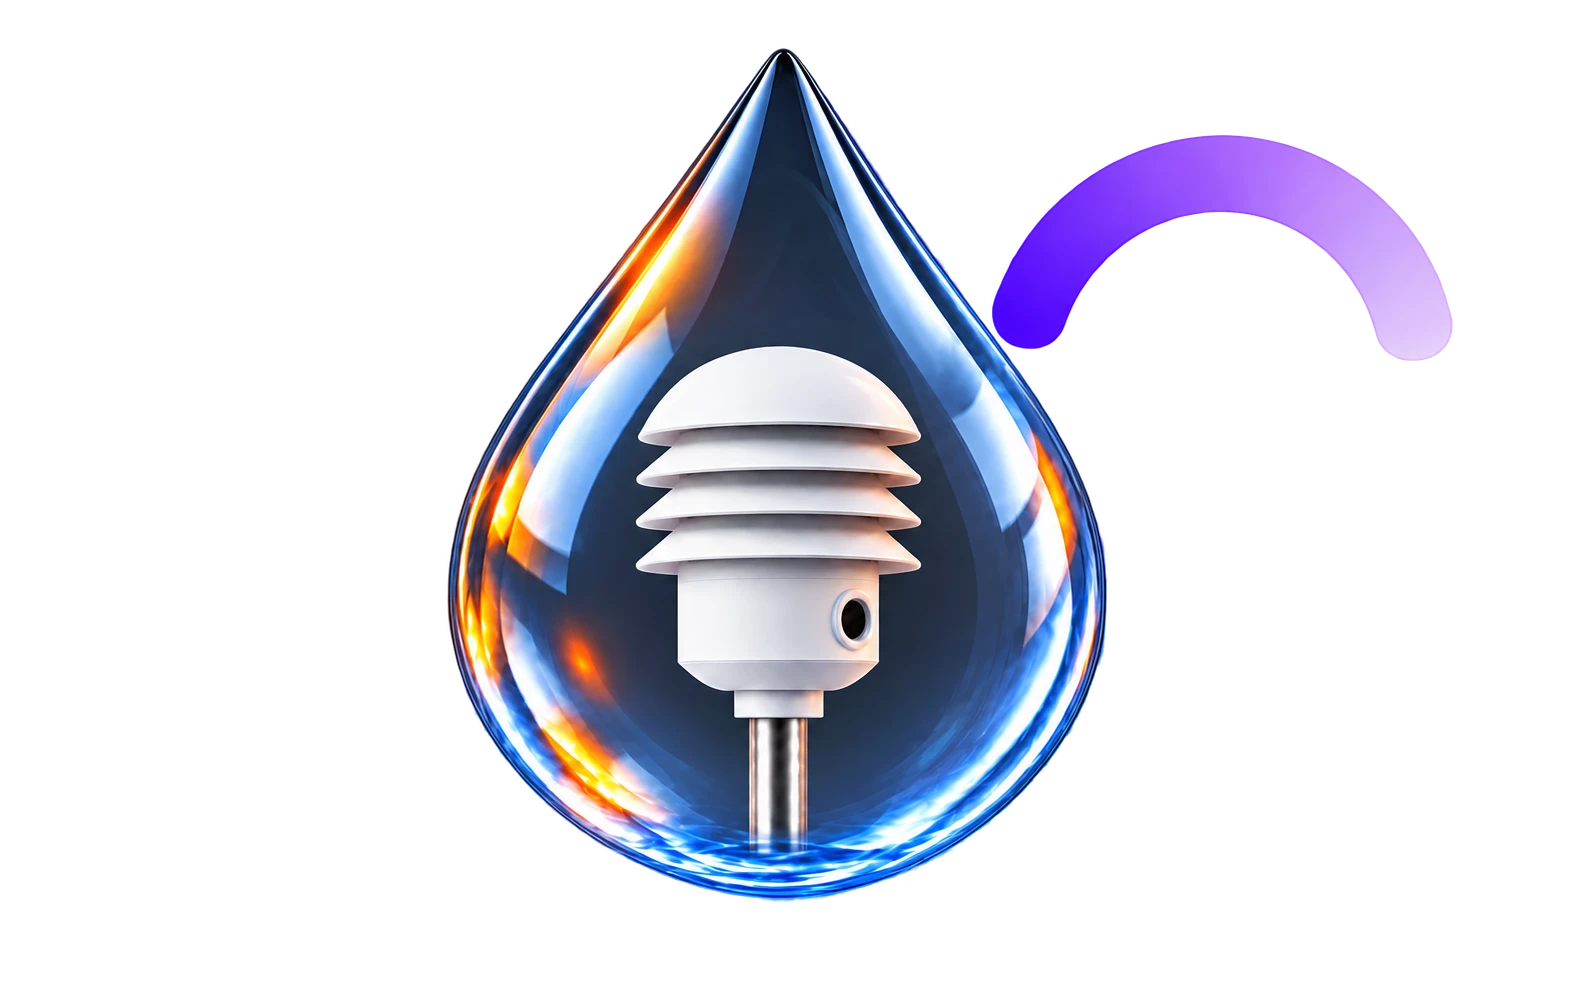
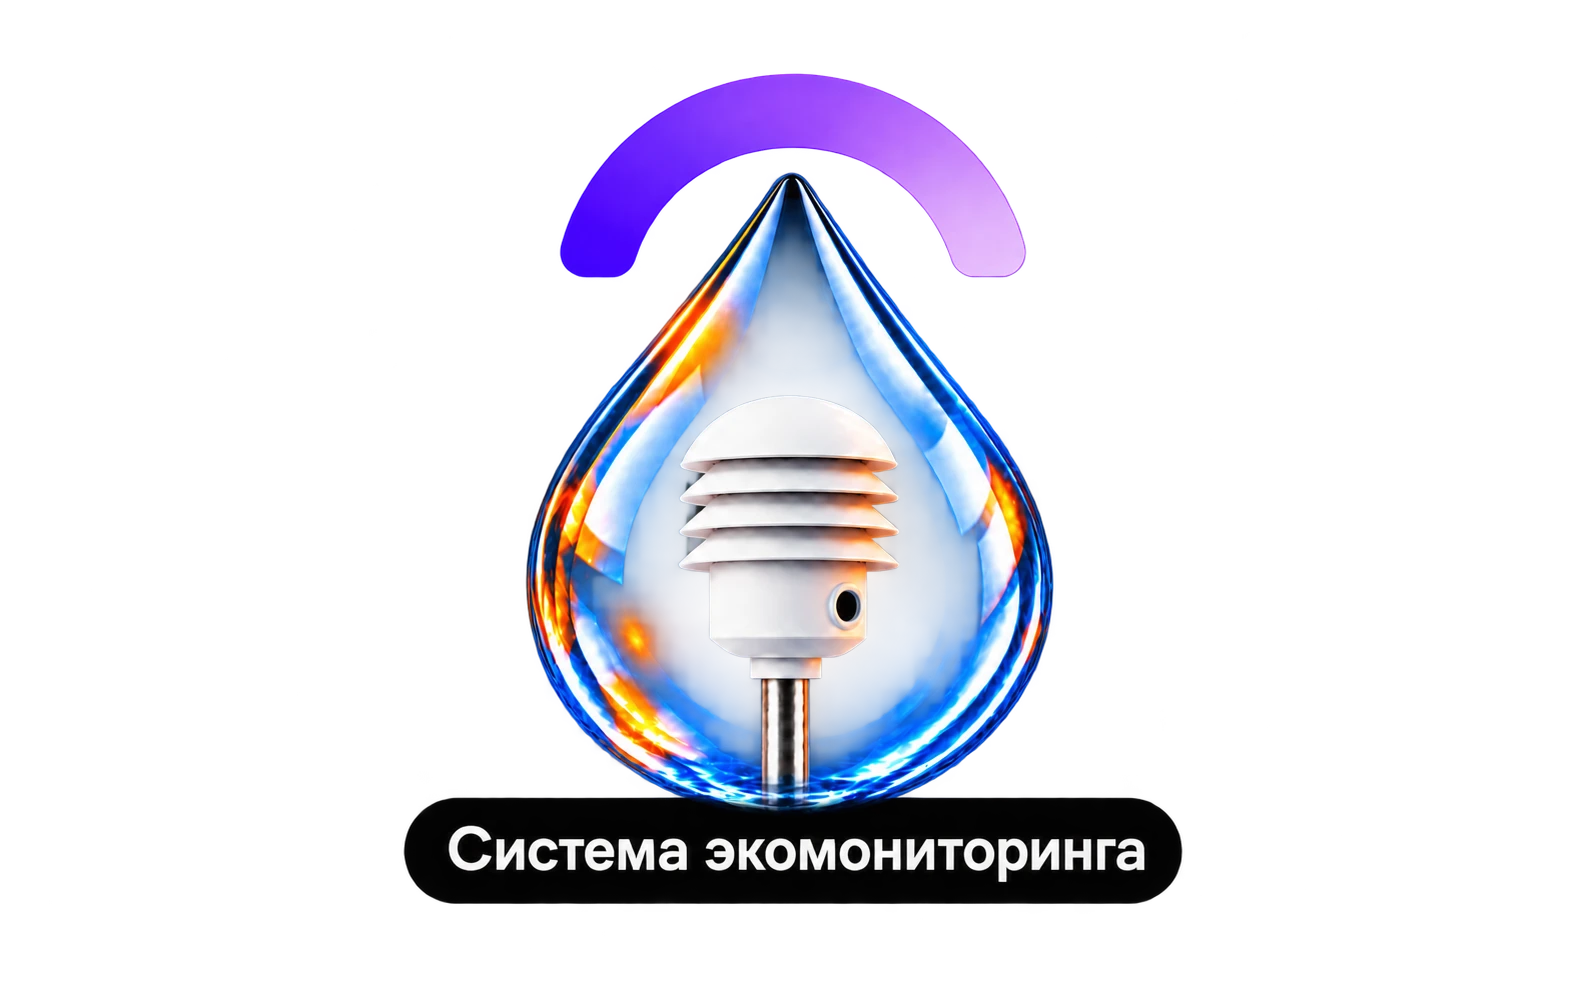
Превью экомониторинга — капля с дугой и подписью

Changed region(s): [[0.2472, 0.0312, 0.9269, 0.9375]]

diff --git a/src/data/cases.ts b/src/data/cases.ts
@@ -335,17 +335,17 @@ export const caseStudies: CaseStudy[] = [
     ],
     preview: {
       src: ecoPreview,
-      alt: "Кейс: платформа экомониторинга — капля воды с датчиком внутри и фиолетовая дуга",
-      // Арт 1586×992, прозрачный фон: капля + дуга занимают 63.4% ширины файла (x 447–1452)
-      // и 86% высоты (y 4.8–90.7%), центр рисунка — 59.9% по x и 47.8% по y.
-      // Центруем именно рисунок, а не файл. В карточке рисунок 90% ширины плашки (файл 142%).
-      class: "absolute left-1/2 top-1/2 h-auto w-[142%] max-w-none -translate-x-[59.9%] -translate-y-[47.8%]",
-      widths: [620, 1240],
-      sizes: "(min-width: 1024px) 620px, 146vw",
-      // В слайдере рисунок целиком, с воздухом сверху и снизу: высота 89%, файл 88% ширины слайда.
+      alt: "Кейс: платформа экомониторинга — капля воды с датчиком, фиолетовая дуга над ней и подпись «Система экомониторинга»",
+      // Арт 1586×992, прозрачный фон: дуга, капля и чёрная подпись занимают 49.1% ширины файла
+      // (x 404–1182) и 83.7% высоты (y 73–903), центр рисунка — 50% по x и 49.2% по y.
+      // В карточке рисунок 82% высоты плашки, с воздухом ~33px по бокам (файл 168% ширины плашки).
+      class: "absolute left-1/2 top-1/2 h-auto w-[168%] max-w-none -translate-x-1/2 -translate-y-[49.2%]",
+      widths: [740, 1480],
+      sizes: "(min-width: 1024px) 740px, 170vw",
+      // В слайдере рисунок целиком: высота 90% слайда, файл 92% его ширины.
       hero: {
-        class: "absolute left-1/2 top-1/2 h-auto w-[88%] max-w-none -translate-x-[59.9%] -translate-y-[47.8%]",
-        width: 366,
+        class: "absolute left-1/2 top-1/2 h-auto w-[92%] max-w-none -translate-x-1/2 -translate-y-[49.2%]",
+        width: 381,
       },
     },
   }),

diff --git a/PLAN.md b/PLAN.md
@@ -1084,8 +1084,8 @@ Figma MCP с масштабом 2 (2880×2048). Обычный скриншот 
 браузере: поля слева и справа поровну (карточка 77/77, слайдер 92/92).
 
 **Превью кейса экомониторинга** (слайдер героя, карточка на главной, «Другие проекты») — арт
-`preview.webp` (1586×992, прозрачный фон): капля воды с датчиком внутри и фиолетовая дуга справа.
-Прежний `preview.png` (окно браузера с картой) удалён. Рисунок занимает 63.4% ширины файла
-(x 447–1452) и 86% высоты, центр — 59.9% по x и 47.8% по y, поэтому центруется именно рисунок
-(`-translate-x-[59.9%] -translate-y-[47.8%]`), а не файл. В карточке рисунок 90% ширины плашки,
-поля 21/21 по бокам, 66/66 сверху и снизу; в слайдере 56% ширины, 13/13 сверху и снизу.
+`preview.webp` (1586×992, прозрачный фон): фиолетовая дуга над каплей воды с датчиком и чёрная
+плашка «Система экомониторинга» снизу. Прежний `preview.png` (окно браузера с картой) удалён.
+Это вторая версия арта: в первой дуга стояла справа от капли, без подписи — центрировали рисунок,
+а не файл. В нынешней рисунок симметричный: 49.1% ширины файла, 83.7% высоты, центр 50% / 49.2%
+(`-translate-y-[49.2%]`). В карточке рисунок 82% высоты плашки, в слайдере 90% высоты.
